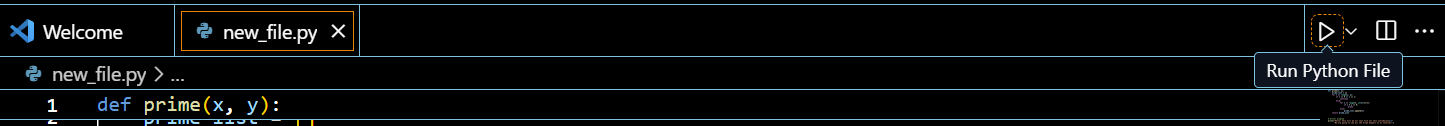
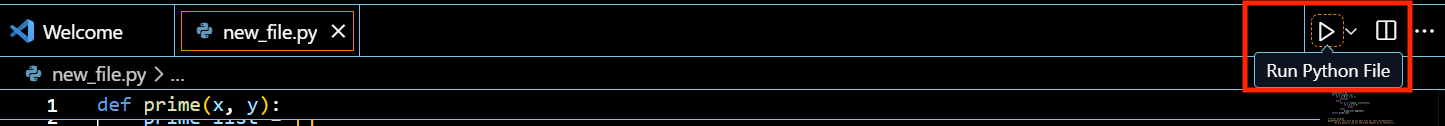
added jupyterlab section, cropped and annotated images, more alt text changes

Changed region(s): [[0.8408, 0.0, 0.9965, 0.7381]]

diff --git a/content/notes/vscode-intro/using-ood.md b/content/notes/vscode-intro/using-ood.md
@@ -49,7 +49,7 @@ Appears in the explorer for easy navigation
 
 {{< figure src="/notes/vscode-intro/img/Introduction%20to%20visual%20studio%20code%20for%20hpc%20%281%29_12.png" alt="Screenshot of the VS Code File menu with Open Folder option highlighted" width="600px" >}}
 
-{{< figure src="/notes/vscode-intro/img/Introduction%20to%20visual%20studio%20code%20for%20hpc%20%281%29_11.png" alt="Screenshot of the folder selection dialog in VS Code" width="600px" >}}
+{{< figure src="/notes/vscode-intro/img/Introduction%20to%20visual%20studio%20code%20for%20hpc%20%281%29_11.png" alt="Screenshot of the Open Folder button in VS Code's welcome screen" width="600px" >}}
 
 {{< figure src="/notes/vscode-intro/img/Introduction%20to%20visual%20studio%20code%20for%20hpc%20%281%29_10.png" alt="Screenshot of the VS Code explorer panel after a folder has been opened" width="600px" >}}
 
@@ -65,7 +65,7 @@ Appears in the explorer for easy navigation
 
 ### **Workspaces**
 
-{{< figure src="/notes/vscode-intro/img/Introduction%20to%20visual%20studio%20code%20for%20hpc%20%281%29_15.png" alt="Screenshot of the VS Code Open Workspace From File dialog" width="600px" >}}
+
 
 **Save a Workspace:**
 
@@ -74,6 +74,8 @@ Select **File > Save Workspace As**
 **Open a Workspace:**
 
 Select **File > Open Workspace from File...**
+
+{{< figure src="/notes/vscode-intro/img/Introduction%20to%20visual%20studio%20code%20for%20hpc%20%281%29_15.png" alt="Screenshot of the VS Code Open Workspace From File dialog" width="600px" >}}
 
 Workspaces are configurations of your files and folders, so it can easily let you access your project configurations. You can even modify specific settings!
 
@@ -105,7 +107,7 @@ Select your file type
 
 Make sure it is in the right folder, or move it to the correct folder in the file explorer on the left
 
-{{< figure src="/notes/vscode-intro/img/Introduction%20to%20visual%20studio%20code%20for%20hpc%20%281%29_21.png" alt="Screenshot of the New File and Open File buttons on VS Code's Start screen" width="600px" >}}
+{{< figure src="/notes/vscode-intro/img/Introduction%20to%20visual%20studio%20code%20for%20hpc%20%281%29_21.png" alt="Screenshot of the New File button on VS Code's Start screen" width="600px" >}}
 
 {{< figure src="/notes/vscode-intro/img/Introduction%20to%20visual%20studio%20code%20for%20hpc%20%281%29_22.png" alt="Screenshot of the VS Code File menu with New File option highlighted" width="600px" >}}
 

diff --git a/content/notes/vscode-intro/running-and-debugging.md b/content/notes/vscode-intro/running-and-debugging.md
@@ -55,7 +55,7 @@ Walk through the debug tools
 
 From here you can use regular terminal commands like `pwd` or even load modules!
 
-{{< figure src="/notes/vscode-intro/img/Introduction%20to%20visual%20studio%20code%20for%20hpc%20%281%29_33.png" alt="Screenshot of the terminal menu in VS Code" width="600px" >}}
+{{< figure src="/notes/vscode-intro/img/Introduction%20to%20visual%20studio%20code%20for%20hpc%20%281%29_33.png" alt="Screenshot of the terminal menu in VS Code with the New Terminal option circled" width="600px" >}}
 
 {{< figure src="/notes/vscode-intro/img/Introduction%20to%20visual%20studio%20code%20for%20hpc%20%281%29_34.png" alt="Screenshot of the VS Code terminal with HPC module load commands" width="600px" >}}
 
@@ -95,7 +95,7 @@ Modify your file with some basic runnable Python code
 
 Opens a terminal automatically
 
-{{< figure src="/notes/vscode-intro/img/Introduction%20to%20visual%20studio%20code%20for%20hpc%20%281%29_38.png" alt="Screenshot of an example Python script in the VS Code editor" width="600px" >}}
+{{< figure src="/notes/vscode-intro/img/Introduction%20to%20visual%20studio%20code%20for%20hpc%20%281%29_38.png" alt="Screenshot of the VS Code editor with the Run Python File button circled" width="600px" >}}
 
 {{< figure src="/notes/vscode-intro/img/Introduction%20to%20visual%20studio%20code%20for%20hpc%20%281%29_39.png" alt="Screenshot of the VS Code Run menu, including the Run Without Debugging option" width="600px" >}}
 
@@ -125,6 +125,6 @@ These changes stay even when you open a new interactive session
 
 You can even download extra extensions!
 
-{{< figure src="/notes/vscode-intro/img/Introduction%20to%20visual%20studio%20code%20for%20hpc%20%281%29_42.png" alt="Screenshot of the VS Code File menu with the Preferences, Keyboard Shortcuts option highlighted" width="600px" >}}
+{{< figure src="/notes/vscode-intro/img/Introduction%20to%20visual%20studio%20code%20for%20hpc%20%281%29_42.png" alt="Screenshot of the VS Code File menu with the Preferences submenu circled" width="600px" >}}
 
 {{< figure src="/notes/vscode-intro/img/Introduction%20to%20visual%20studio%20code%20for%20hpc%20%281%29_43.png" alt="Screenshot of the VS Code extension marketplace search" width="600px" >}}

diff --git a/content/notes/vscode-intro/local-ssh.md b/content/notes/vscode-intro/local-ssh.md
@@ -118,6 +118,25 @@ If you want to run Python code you need to "Run Python File" first, then type in
 
 {{< figure src="/notes/vscode-intro/img/Introduction%20to%20visual%20studio%20code%20for%20hpc%20%281%29_52.png" alt="Screenshot of the Run Python File button in VS Code" width="600px" >}}
 
+## **Interactive JupyterLab**
+
+Start an ijob, then load JupyterLab and start a notebook server:
+
+```bash
+module load miniforge jupyterlab
+jupyter-notebook --no-browser --ip=0.0.0.0
+```
+
+Copy the URL that starts with `http://`.
+
+In VS Code, select **Existing Jupyter Server**, paste the URL, and press Enter.
+
+{{< figure src="/notes/vscode-intro/img/Introduction%20to%20visual%20studio%20code%20for%20hpc%20%281%29_58.png" alt="Screenshot of VS Code menu showing the Existing Jupyter Server option" width="600px" >}}
+
+Select your kernel from the kernels we offer or [create your own kernel from a conda environment](https://archive.rc.virginia.edu/userinfo/howtos/rivanna/custom-jupyter-kernels/ "Custom Jupyter Kernels page on UVA Research Computing website").
+
+{{< figure src="/notes/vscode-intro/img/Introduction%20to%20visual%20studio%20code%20for%20hpc%20%281%29_59.png" alt="Screenshot of VS Code Jupyter kernel selector showing a TensorFlow 2.17.0 kernel" width="600px" >}}
+
 ---
 
 ## **Logging Out**
